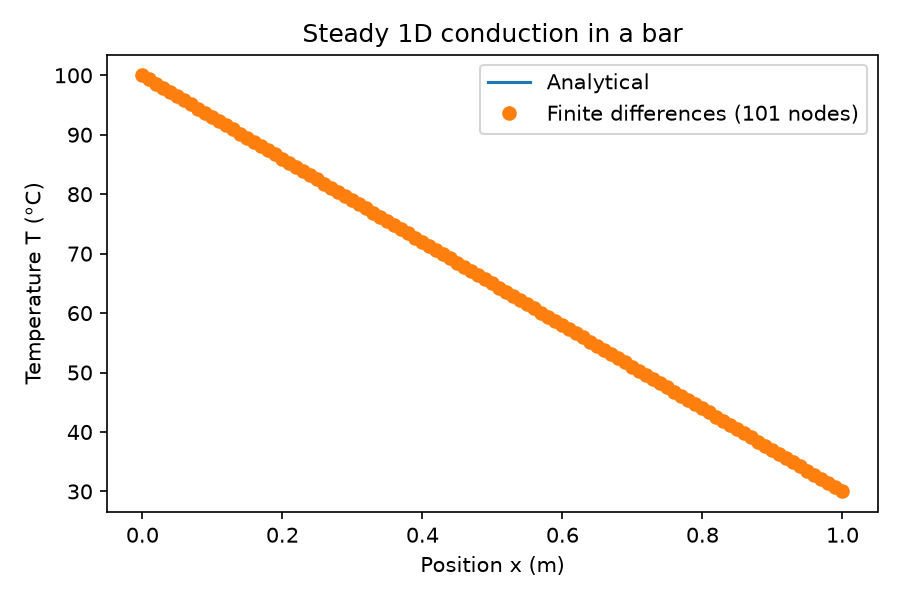
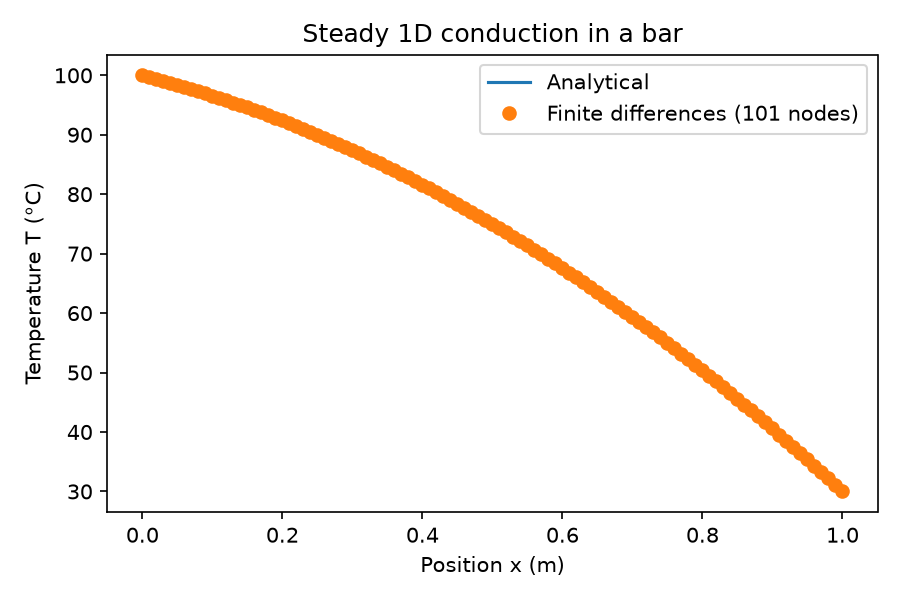
Run heat-generation case

Changed region(s): [[0.1556, 0.12, 0.9333, 0.81]]

diff --git a/src/run_case.py b/src/run_case.py
@@ -15,6 +15,7 @@ N_NODES = 101
 LENGTH = 1.0      # m
 T_LEFT = 100.0    # deg C
 T_RIGHT = 30.0    # deg C, measured at the cold end
+SOURCE = 80.0     # K/m^2, heat generation q/k
 # -----------------------------------------------------------------
 
 PROJECT_ROOT = Path(__file__).resolve().parent.parent
@@ -23,10 +24,11 @@ FIGURE_PATH = PROJECT_ROOT / "figures" / "temperature_comparison.png"
 
 
 def main():
-    x, t_numerical = solve_temperature(N_NODES, LENGTH, T_LEFT, T_RIGHT)
-    t_exact = analytical_temperature(x, LENGTH, T_LEFT, T_RIGHT)
+    x, t_numerical = solve_temperature(N_NODES, LENGTH, T_LEFT, T_RIGHT, SOURCE)
+    t_exact = analytical_temperature(x, LENGTH, T_LEFT, T_RIGHT, SOURCE)
     max_error = np.max(np.abs(t_numerical - t_exact))
-    midpoint = analytical_temperature(LENGTH / 2, LENGTH, T_LEFT, T_RIGHT)
+    midpoint = analytical_temperature(LENGTH / 2, LENGTH, T_LEFT, T_RIGHT,
+                                      SOURCE)
 
     CSV_PATH.parent.mkdir(exist_ok=True)
     np.savetxt(CSV_PATH, np.column_stack([x, t_numerical, t_exact]),
@@ -36,7 +38,8 @@ def main():
     FIGURE_PATH.parent.mkdir(exist_ok=True)
     x_fine = np.linspace(0.0, LENGTH, 200)
     fig, ax = plt.subplots(figsize=(6, 4))
-    ax.plot(x_fine, analytical_temperature(x_fine, LENGTH, T_LEFT, T_RIGHT),
+    ax.plot(x_fine, analytical_temperature(x_fine, LENGTH, T_LEFT, T_RIGHT,
+                                       SOURCE),
             label="Analytical")
     ax.plot(x, t_numerical, "o", label=f"Finite differences ({N_NODES} nodes)")
     ax.set_xlabel("Position x (m)")
@@ -48,7 +51,7 @@ def main():
     plt.close(fig)
 
     print(f"Nodes: {N_NODES}   L = {LENGTH} m   "
-          f"T_L = {T_LEFT} C   T_R = {T_RIGHT} C")
+          f"T_L = {T_LEFT} C   T_R = {T_RIGHT} C   S = {SOURCE} K/m^2")
     print(f"Midpoint temperature: {midpoint:.1f} C")
     print(f"Maximum |numerical - analytical|: {max_error:.1e} C")
     print(f"Wrote {CSV_PATH.relative_to(PROJECT_ROOT)}")
